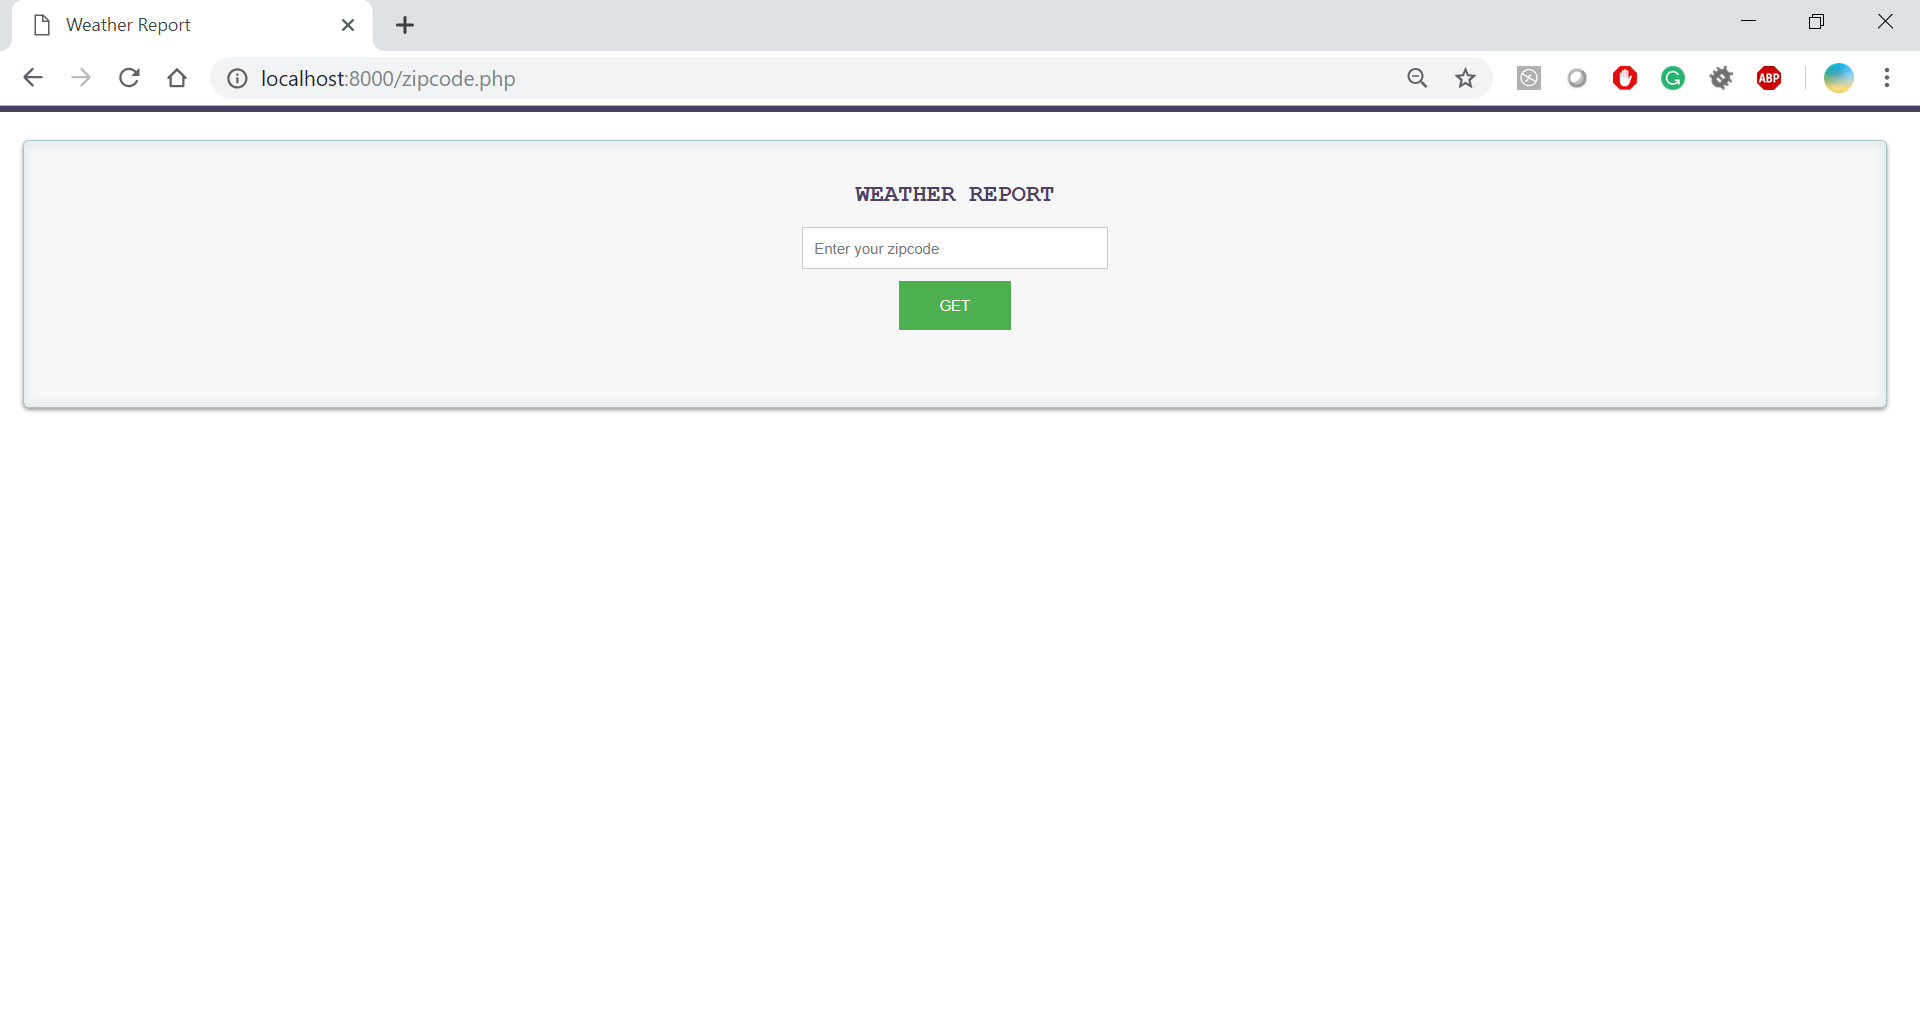
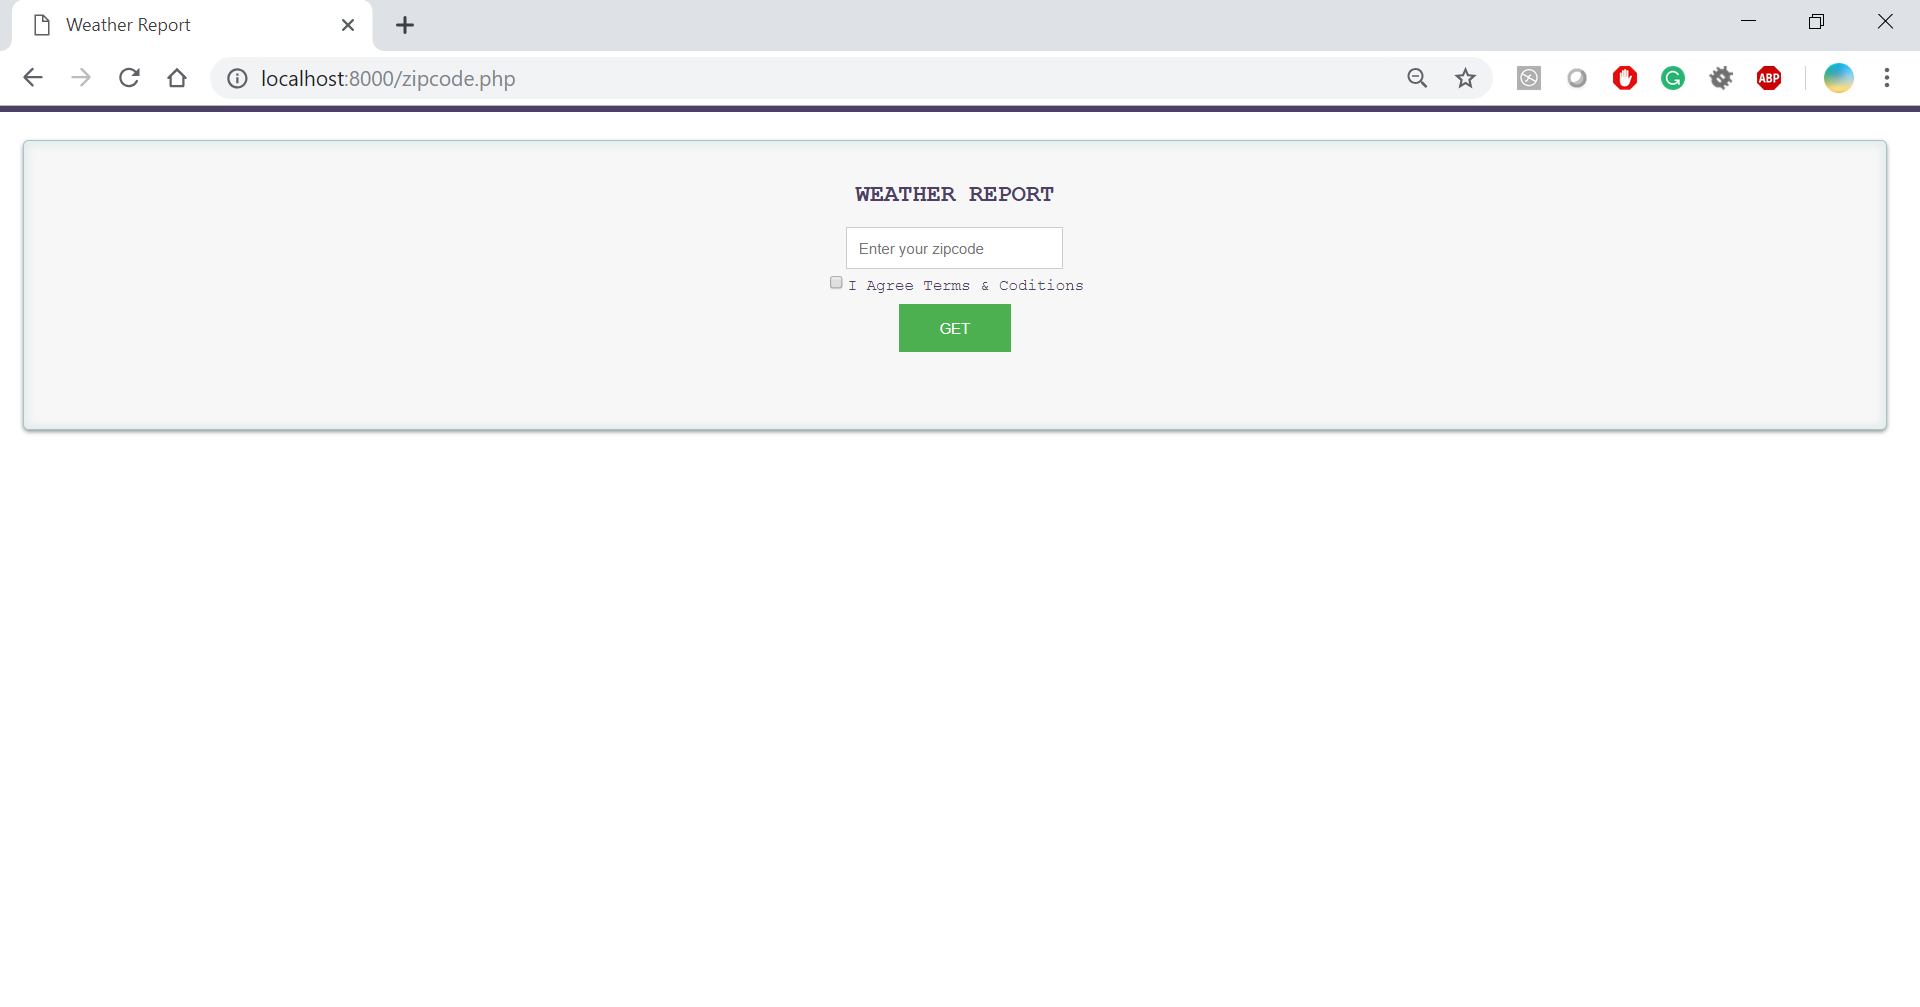
terms  & conditions

diff --git a/source/zipcode.php b/source/zipcode.php
@@ -1,18 +1,35 @@
 <!DOCTYPE html>
 <html>
+<script>
+ function disableSubmit() {
+  document.getElementById("submit").disabled = true;
+ }
+
+  function activateButton(element) {
+
+      if(element.checked) {
+        document.getElementById("submit").disabled = false;
+       }
+       else  {
+        document.getElementById("submit").disabled = true;
+      }
+
+  }
+</script>
 <head>
 	<title>Weather Report</title>
     <meta name="viewport" content="width=device-width, initial-scale=1" charset="UTF-8">
     <!-- <link rel="stylesheet" href="//maxcdn.bootstrapcdn.com/bootstrap/3.3.2/css/bootstrap.min.css"> -->
     <link rel="stylesheet" href="css/teststyle.css">
 </head>
-<body>
+<body onload="disableSubmit()">
 	<center>
 		<div id="page-content">
 			  <h2>WEATHER REPORT</h2>
 			<form name="zip-form" action="signup.php" method="GET" onsubmit="return allnumeric()">
-			<input type="text" pattern="\d{5}" id="zipcode" name="zipcode" placeholder="Enter your zipcode" required>
-			<button>GET</button>
+			<input type="text" pattern="\d{5}" id="zipcode" name="zipcode" placeholder="Enter your zipcode" required><br>
+			<input type="checkbox" name="terms" id="terms" onchange="activateButton(this)"><span>I Agree Terms & Coditions</span>
+			<button name="submit" id="submit">GET</button>
 			</form>
 		</div>
 	</center>
